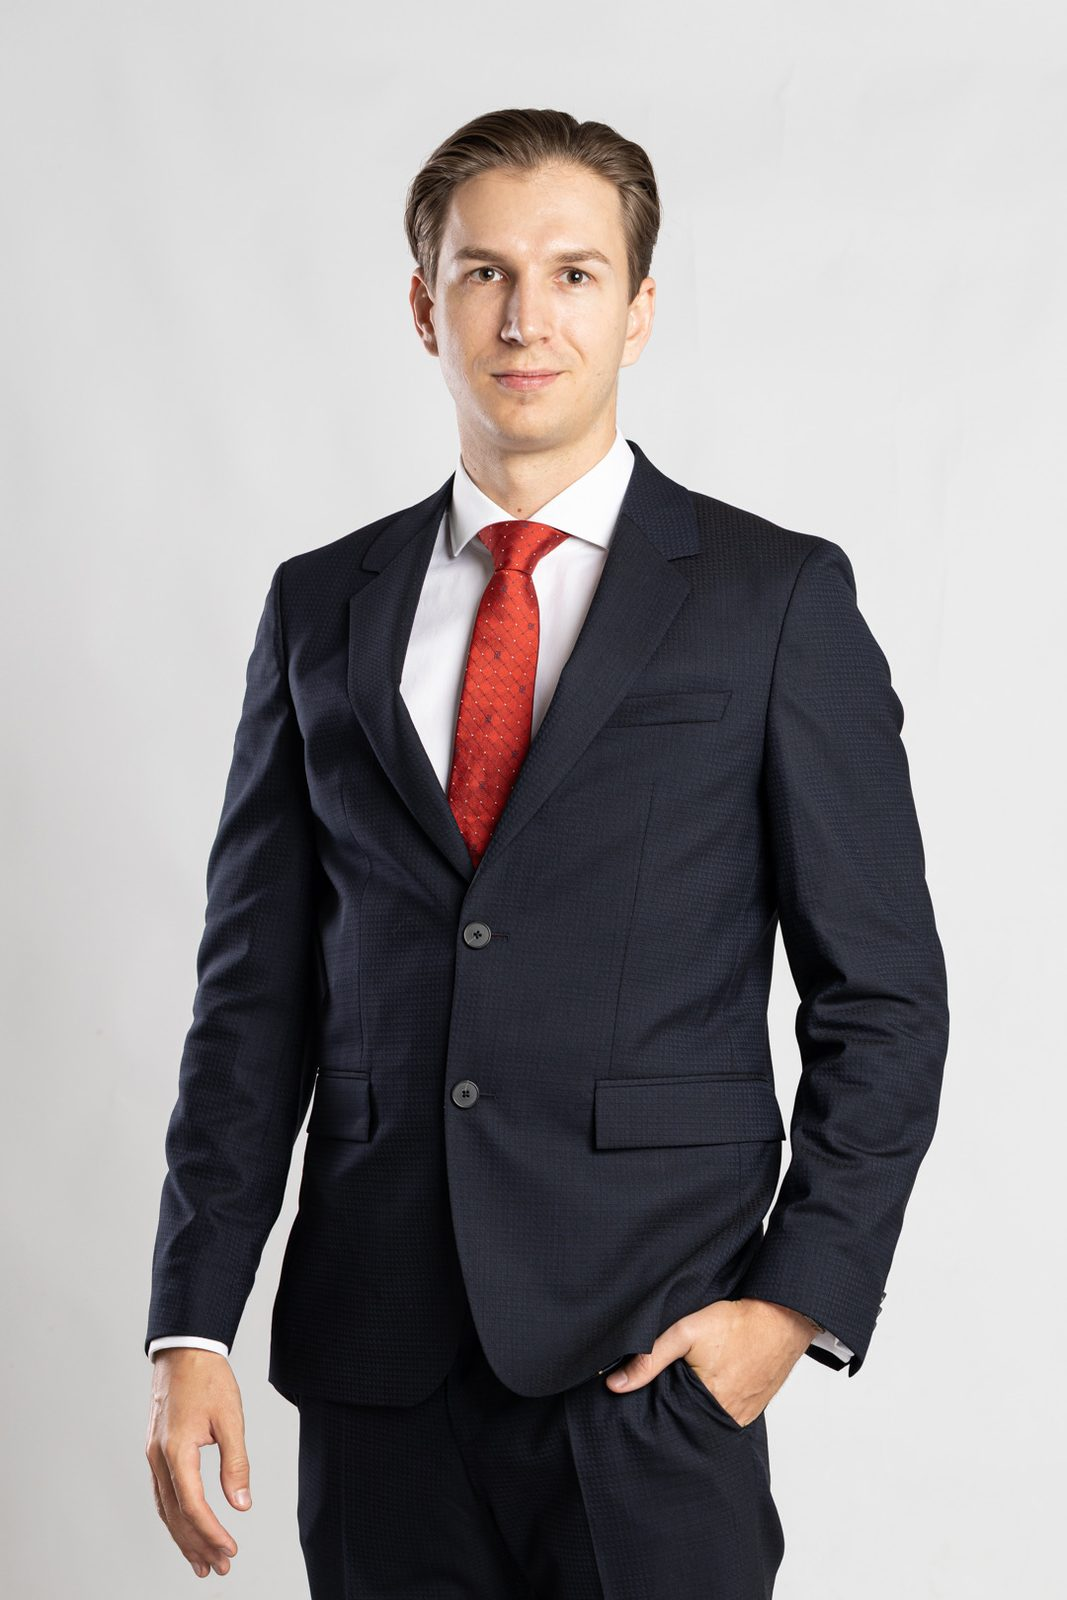
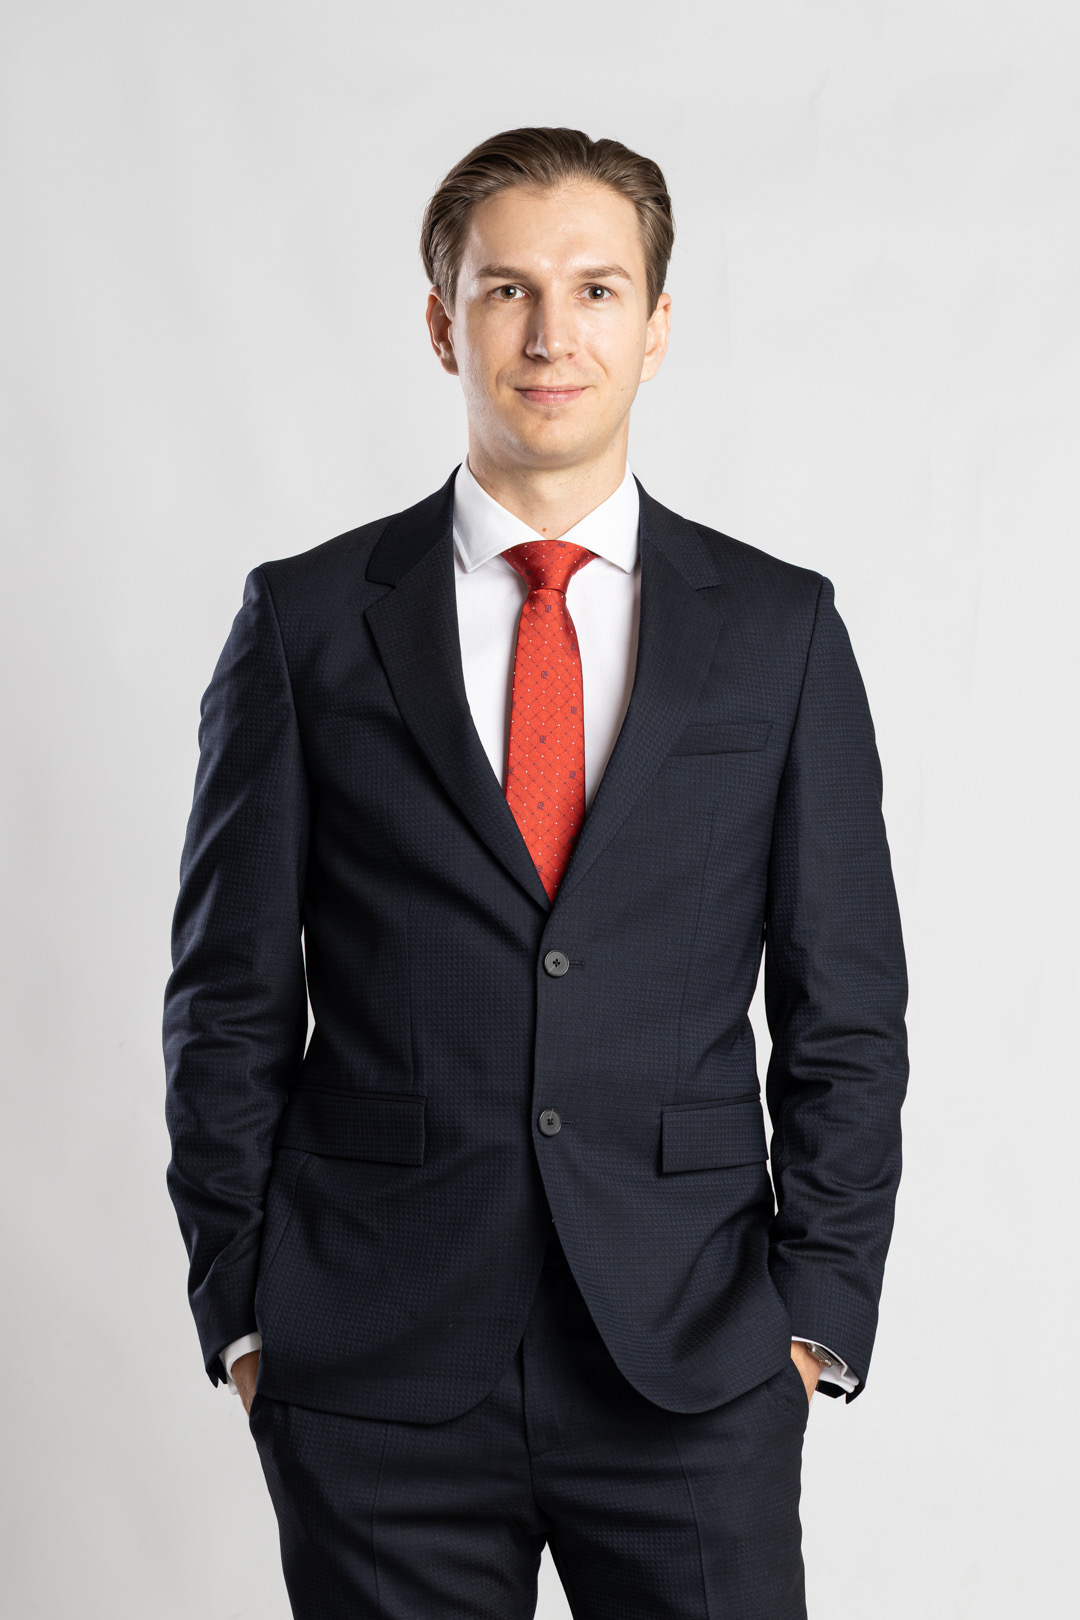
Replace founder portrait with new professional photo, expand container
- Replace robin-portrait.jpg with updated full upper-body portrait (navy suit, red tie, light gray background)
- Increase About section photo container height from 520px → 640px on index.html and de.html
- Change background-position from center 8% → center top to show full upper body

diff --git a/de.html b/de.html
@@ -2705,7 +2705,7 @@
             <div class="feature-grid">
                 <div class="reveal">
                     <!-- Founder photo -->
-                    <div style="border-radius: 12px; overflow: hidden; height: 520px; background: var(--dark-3) url('images/robin-portrait.jpg') center 8% / cover no-repeat; position: relative;" role="img" aria-label="Robin Loths real estate entrepreneur Asunción Paraguay">
+                    <div style="border-radius: 12px; overflow: hidden; height: 640px; background: var(--dark-3) url('images/robin-portrait.jpg') center top / cover no-repeat; position: relative;" role="img" aria-label="Robin Loths real estate entrepreneur Asunción Paraguay">
                         <!-- Crawlable img for Google Images — visually hidden behind background -->
                         <img src="images/robin-portrait.jpg" alt="Robin Loths — German-born entrepreneur, founder of Stuttgart Capital E.A.S., real estate investor in Asunción Paraguay" style="position:absolute;inset:0;width:100%;height:100%;object-fit:cover;opacity:0;pointer-events:none;" aria-hidden="true" loading="eager">
                     </div>

diff --git a/index.html b/index.html
@@ -2569,7 +2569,7 @@
             <div class="feature-grid">
                 <div class="reveal">
                     <!-- Founder photo -->
-                    <div style="border-radius: 12px; overflow: hidden; height: 520px; background: var(--dark-3) url('images/robin-portrait.jpg') center 8% / cover no-repeat; position: relative;" role="img" aria-label="Robin Loths real estate entrepreneur Asunción Paraguay">
+                    <div style="border-radius: 12px; overflow: hidden; height: 640px; background: var(--dark-3) url('images/robin-portrait.jpg') center top / cover no-repeat; position: relative;" role="img" aria-label="Robin Loths real estate entrepreneur Asunción Paraguay">
                         <!-- Crawlable img for Google Images — visually hidden behind background -->
                         <img src="images/robin-portrait.jpg" alt="Robin Loths — German-born entrepreneur, founder of Stuttgart Capital E.A.S., real estate investor in Asunción Paraguay" style="position:absolute;inset:0;width:100%;height:100%;object-fit:cover;opacity:0;pointer-events:none;" aria-hidden="true" loading="eager">
                     </div>
